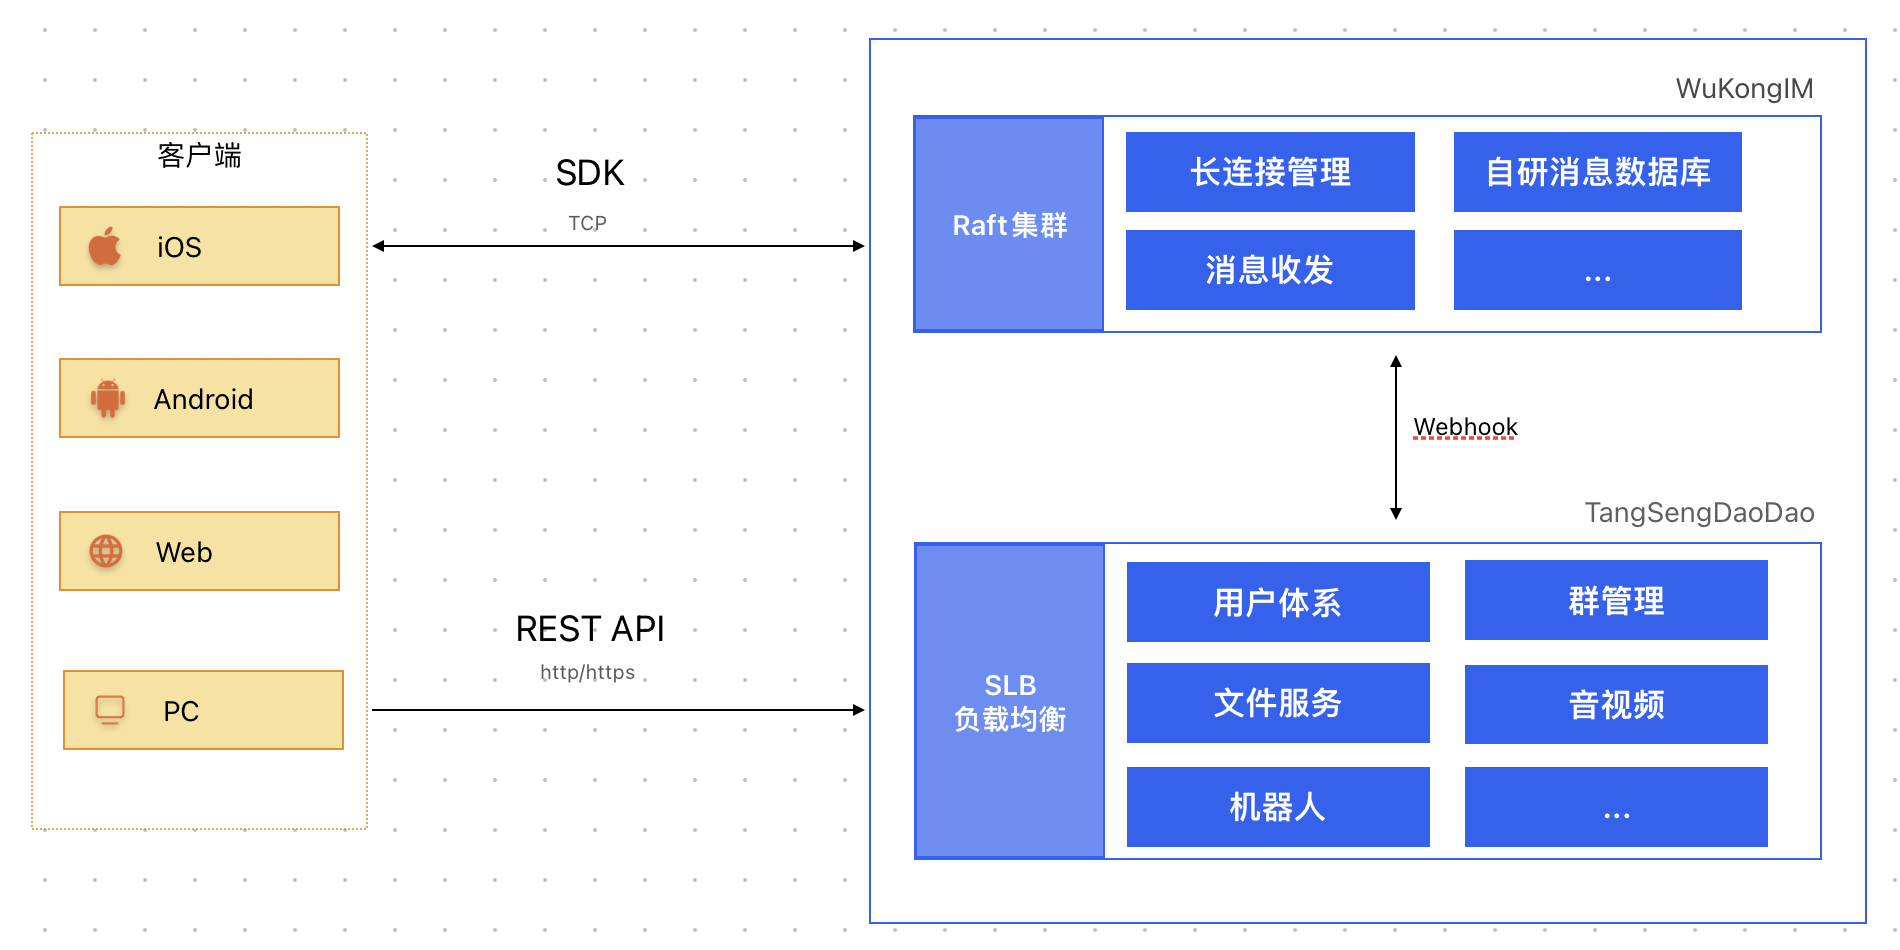
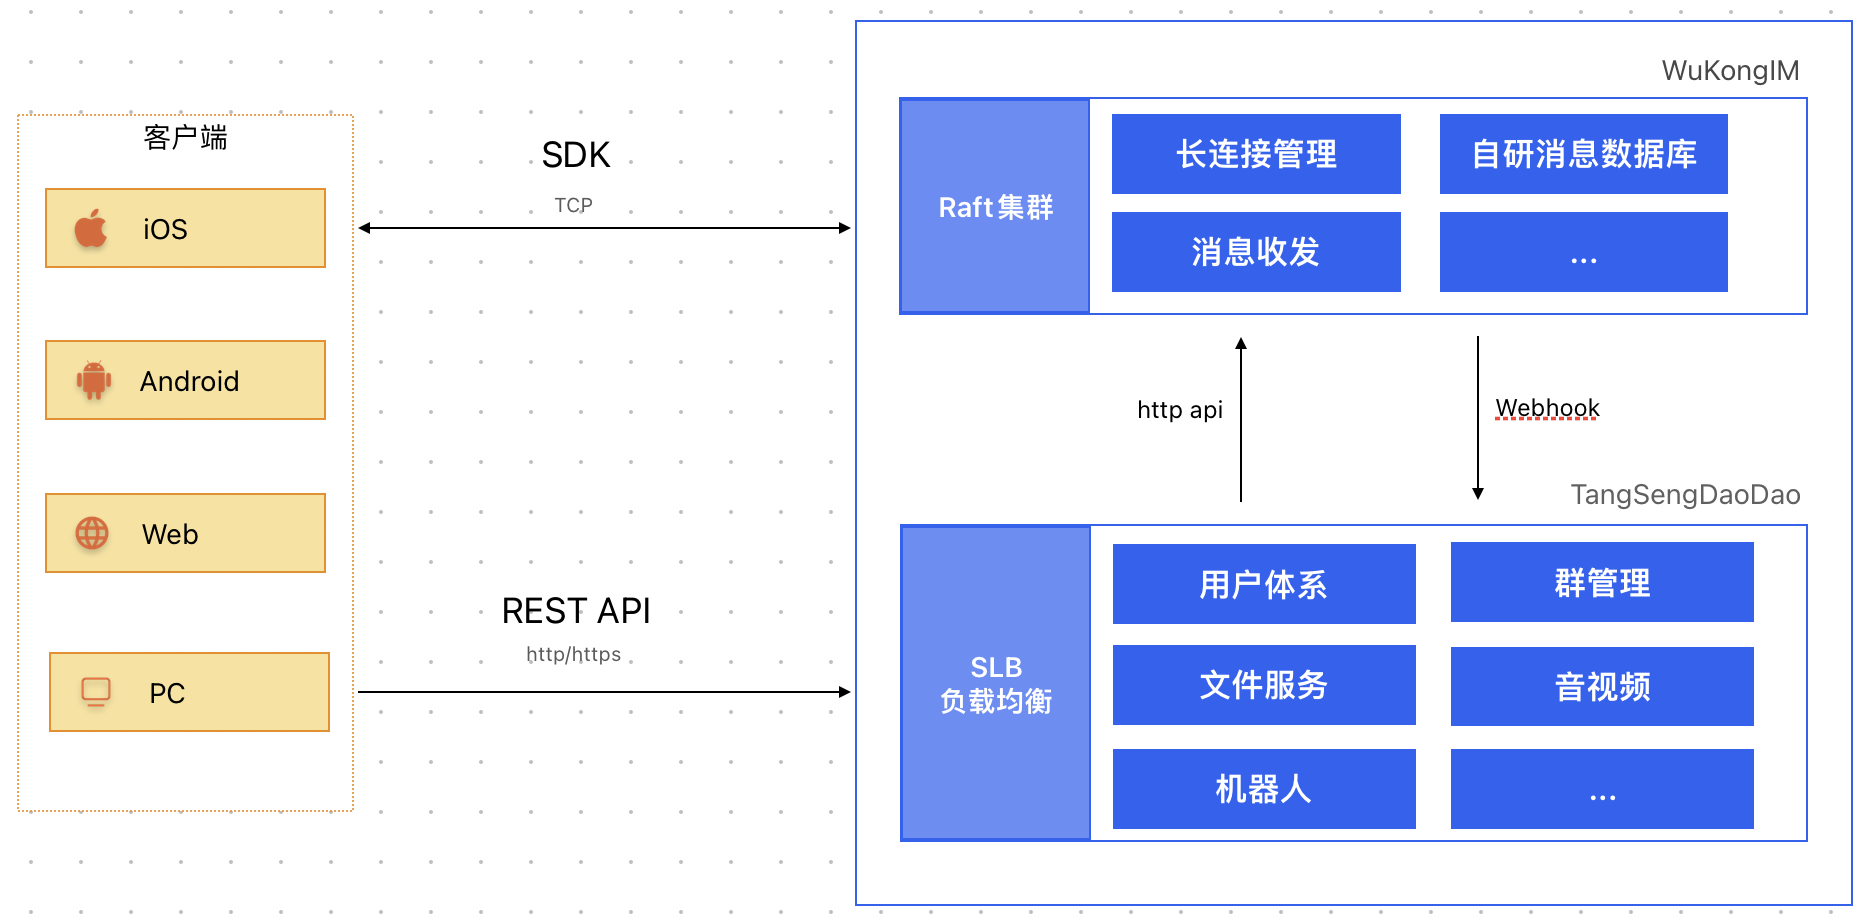
docs: update

diff --git a/.vitepress/sidebar.ts b/.vitepress/sidebar.ts
@@ -7,6 +7,7 @@ export const sidebar: DefaultTheme.Sidebar = {
 			collapsed: false,
 			items: [
 				{ text: "什么是唐僧叨叨", link: "/guide/" },
+				{ text: "快速入口", link: "/guide/fastentry" },
 				{ text: "问题解决途径", link: "/guide/support" },
 				{ text: "线上Demo体验", link: "/guide/demo" },
 				{ text: "自己搭建体验", link: "/guide/quickstart" },
@@ -16,7 +17,6 @@ export const sidebar: DefaultTheme.Sidebar = {
 			text: "其他",
 			collapsed: false,
 			items: [
-				{ text: "我们的开源", link: "/guide/source" },
 				{ text: "法律声明", link: "/guide/legal" },
 				{ text: "常见问题", link: "/guide/question" },
 			],

diff --git a/.vitepress/navbar.ts b/.vitepress/navbar.ts
@@ -31,11 +31,7 @@ export const navbar: DefaultTheme.NavItem[] = [
 		link: "/price/index"
 	},
 	{
-		text: "项目地址",
-		activeMatch: "^/project",
-		items: [
-			{ text: "GitHub", link: "https://github.com/TangSengDaoDao/TangSengDaoDaoServer" },
-			{ text: "Gitee", link: "https://gitee.com/TangSengDaoDao/TangSengDaoDaoServer" },
-		],
+		text: "演示Demo",
+		link: "/guide/demo"
 	},
 ];

diff --git a/src/guide/fastentry.md b/src/guide/fastentry.md
@@ -1,0 +1,28 @@
+# 快速入口
+
+
+## 源码和文档快速入口
+
+唐僧叨叨
+
+| 项目名 | Github地址 | Gitee地址 | 文档 | 说明 |
+| ---- | ---------- | --------- | ---- | ---- |
+|   TangSengDaoDaoServer   |   [Github](https://github.com/TangSengDaoDao/TangSengDaoDaoServer)         |     [Gitee](https://gitee.com/TangSengDaoDao/TangSengDaoDaoServer)  | &nbsp;&nbsp;&nbsp;&nbsp; [文档](https://tsdaodao.com/dev/backend/deploy-compose.html) &nbsp;&nbsp;&nbsp;&nbsp;|    唐僧叨叨的业务端，负责一些业务逻辑，比如：好友关系，群组，朋友圈等 （通讯端使用的是 WuKongIM）  |
+|   TangSengDaoDaoAndroid   |   [Github](https://github.com/TangSengDaoDao/TangSengDaoDaoAndroid)         |     [Gitee](https://gitee.com/TangSengDaoDao/TangSengDaoDaoAndroid) | [文档](https://tsdaodao.com/dev/android/intro.html)    |    唐僧叨叨的Android端   |
+|   TangSengDaoDaoiOS   |   [Github](https://github.com/TangSengDaoDao/TangSengDaoDaoiOS)         |     [Gitee](https://gitee.com/TangSengDaoDao/TangSengDaoDaoiOS) | [文档](https://tsdaodao.com/dev/ios/intro.html)       |    唐僧叨叨的iOS端   |
+|   TangSengDaoDaoWeb   |   [Github](https://github.com/TangSengDaoDao/TangSengDaoDaoWeb)         |     [Gitee](https://gitee.com/TangSengDaoDao/TangSengDaoDaoWeb) | [文档](https://tsdaodao.com/dev/web/intro.html)       |    唐僧叨叨的Web/PC端   |
+|   TangSengDaoDaoManager   |   [Github](https://github.com/TangSengDaoDao/TangSengDaoDaoManager)         |     [Gitee](https://gitee.com/TangSengDaoDao/TangSengDaoDaoManager) | 无      |    唐僧叨叨的后台管理系统  |
+
+
+WuKongIM
+
+| 项目名 | Github地址 | Gitee地址 | 文档 | 说明 |
+| ---- | ---------- | --------- | ---- |  ---- |
+|   WuKongIM   |   [Github](https://github.com/WuKongIM/WuKongIM)         |     [Gitee](https://gitee.com/WuKongDev/WuKongIM) | &nbsp;&nbsp;&nbsp;&nbsp; [文档](https://githubim.com/sdk/android.html)  &nbsp;&nbsp;&nbsp;&nbsp;       |    悟空IM通讯端，负责长连接维护，消息投递等等 |
+|   WuKongIMAndroidSDK   |   [Github](https://github.com/WuKongIM/WuKongIMAndroidSDK)         |     [Gitee](https://gitee.com/WuKongDev/WuKongIMAndroidSDK) | [文档](https://githubim.com/sdk/android.html)    |    悟空IM的Android SDK  |
+|   WuKongIMiOSSDK   |   [Github](https://github.com/WuKongIM/WuKongIMiOSSDK)         |     [Gitee](https://gitee.com/WuKongDev/WuKongIMiOSSDK)  | [文档](https://githubim.com/sdk/ios.html)     |    悟空IM的iOS SDK  |
+|   WuKongIMUniappSDK   |   [Github](https://github.com/WuKongIM/WuKongIMUniappSDK)         |     [Gitee](https://gitee.com/WuKongDev/WuKongIMUniappSDK)  | [文档](https://githubim.com/sdk/uniapp.html)      |    悟空IM的 Uniapp SDK  |
+|   WuKongIMJSSDK   |   [Github](https://github.com/WuKongIM/WuKongIMJSSDK)         |     [Gitee](https://gitee.com/WuKongDev/WuKongIMJSSDK)   | [文档](https://githubim.com/sdk/javascript.html)     |    悟空IM的 JS SDK  |
+|   WuKongIMFlutterSDK   |    [Github](https://github.com/WuKongIM/WuKongIMFlutterSDK)        |    [Gitee](https://gitee.com/WuKongDev/WuKongIMFlutterSDK)   |[文档](https://githubim.com/sdk/flutter.html)    |    悟空IM的 Flutter SDK |
+|   WuKongIMReactNativeDemo   |   [Github](https://github.com/wengqianshan/WuKongIMReactNative)         |     无  |  无  |    悟空IM的 React Native Demo(由贡献者 [wengqianshan](https://github.com/wengqianshan) 提供)  |
+

diff --git a/src/dev/backend/architecture.md b/src/dev/backend/architecture.md
@@ -6,12 +6,24 @@
 
 ![整体架构](./architecture.png)
 
-整体架构2
 
-![整体架构](./architecture1.png)
+采用大道至简的设计原则，我们尽最大的努力让架构简单化，让开发者上手成本和学习成本大大降低。
+
+我们的架构设计原则：`简洁化`、`可扩展性`、`高可用`
+
+整个系统分为二层：`通讯层`(WuKongIM)、`业务层`(TangSengDaoDao)
+
+`通讯层`(WuKongIM)： 负责长连接维护，消息投递，消息高效存储等等
+
+`业务层`(TangSengDaoDao)： 负责一些业务逻辑，比如：好友关系，群组，朋友圈等等，一些IM相关的业务层的逻辑
+
+`通讯层与业务层`： WuKongIM会将一些业务层需要的聊天相关的数据通过Webhook的机制（GRPC）推送给TangSengDaoDao，TangSengDaoDao需要投递一些系统消息时，将调用WuKongIM的发送消息的API进行投递。
+
+`客户端与服务端`： 客户端通过SDK与WuKongIM建立长连接，发送消息和收消息都将通过长连接进行传输，客户端的一些业务逻辑，比如：好友关系，群组，朋友圈等等，将通过调用TangSengDaoDao的API进行处理。
+
 
 ## 不仅仅是即时通讯
 
-WuKongIM还可以做为“消息中台”的形式存在，帮助企业快速构建消息中台，实现消息的统一接入、分发、存储、查询、分析、监控等功能。
+WuKongIM还可以做为“消息中台”的形式存在，帮助企业快速构建消息中台，实现消息的统一接入、分发、存储、监控等功能。
 
 ![消息中台](./architecture2.png)

diff --git a/src/guide/index.md b/src/guide/index.md
@@ -41,11 +41,12 @@
 
 **管理端**
 
-研发中...
+[TangSengDaoDaoManager](https://github.com/TangSengDaoDao/TangSengDaoDaoManager)
 
-**全场景模拟平台**
 
-研发中...
+<!-- **全场景模拟平台**
+
+研发中... -->
 
 
 ## 联系我们

diff --git a/src/guide/quickstart.md b/src/guide/quickstart.md
@@ -7,7 +7,7 @@
 
 ## 2. 下载App
     
-[下载APP](/demo/)
+[下载APP](/guide/demo.html)
 
 ## 3. 修改服务器地址
 
